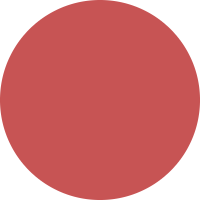
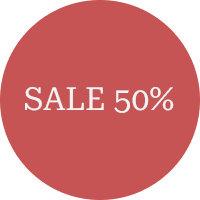
Адаптивное меню

Changed region(s): [[0.12, 0.42, 0.54, 0.57], [0.57, 0.42, 0.87, 0.57]]

diff --git a/menu/menu.css b/menu/menu.css
@@ -1,34 +1,59 @@
+.menu,
+.menu * {
+    box-sizing: border-box;
+}
 .menu {
+    --width: min(900px, 80vw);
+    --menuHeight: min(800px, calc(100vh - 50px), calc(800 / 900 * var(--width)));
+    --menuItemsHeight: calc(290 / 800 * var(--menuHeight) );
+    --menuItemHeight: calc(var(--menuItemsHeight) - 90px);
+    --menuGalleryHeight: calc(var(--menuHeight) - 2 * var(--menuItemsHeight) );
+    --menuGalleryItemHeight: calc(var(--menuGalleryHeight) - 20px);
+    --sectionRightLeftPadding: calc(77 / 200 * var(--menuItemHeight));
+    --menuItemGap: calc(73 / 200 * var(--menuItemHeight));
     display: block;
     visibility: hidden;
-    height: 0;
-    padding: 38px 0 27px 0;
-    /* width: 65.69%; */
-    width: 80%;
+    width: calc(var(--sectionRightLeftPadding) * 2 + var(--menuItemGap) * 2 + var(--menuItemHeight) * 3);
     max-width: 900px;
+    height: 0;
     background-color: #f2f2f2;
+    transition: height 0.3s ease, visibility 0.3s;
 }
 
 .menu--visible {
     visibility: visible;
-    height: max-content;
+    height: var(--menuHeight);
 }
 
 .menu__section {
     display: flex;
-    padding: 0 8.556% 0 8.556%;
+    padding-left: var(--sectionRightLeftPadding);
+    padding-right: var(--sectionRightLeftPadding);
     justify-content: space-between;
+}
+.menu__section:first-child {
+    height: var(--menuItemsHeight);
+    padding-top: 38px;
+    padding-bottom: 13px;
+}
+.menu__section:last-child {
+    height: var(--menuItemsHeight);
+    padding-top: 16px;
+    padding-bottom: 27px;
 }
 
 .menu__gallery {
-    padding: 11px 8.556% 11px 8.556%;
+    padding-top: 11px;
+    padding-bottom: 11px;
+    height: var(--menuGalleryHeight);
     align-items: center;
     background-color: #002654;
 }
 
 .menu__gallery-item {
     display: flex;
-    width: 23.61%;
+    height: calc(var(--menuGalleryItemHeight));
+    aspect-ratio: 150 / 200;
     align-items: center;
 }
 
@@ -39,15 +64,66 @@
 }
 
 .menu__item {
-    width: 26.81%;
+
+    width: var(--menuItemHeight);
+    height: var(--menuItemHeight);
     text-align: center;
 }
 
 .menu__item:hover {
     cursor: grab;
+    background-color: #f1eaea ;
 }
 
+.menu__item-link {
+    display: block;
+    text-decoration: none;
+    height: 25px;
+    font-size: 20px;
+    line-height: 25px;
+    color: #000;
+}
 .menu__img {
+    display: block;
     width: 100%;
+    margin-bottom: 12px;
+}
+
+@media (max-width: 670px) or (max-height: 550px) {
+    .menu {
+        width: 100%;
+        max-width: 300px;
+    }
+    .menu--visible {
+        height: 270px;
+    }
+    .menu__section {
+        flex-direction: column;
+        justify-content: flex-start;
+        padding-left: 0;
+        padding-right: 0;
+    }
+    .menu__section:first-child,
+    .menu__section:last-child {
+        padding-top: 0;
+        padding-bottom: 0;
+        height: 135px;
+    }
+    .menu__gallery {
+        display: none;
+    }
+    .menu__item {
+        width: 100%;
+        height: 45px;
+        text-align: start;
+    }
+    .menu__img {
+        display: none;
+    }
+    .menu__item-link {
+        height: 45px;
+        padding: 10px 10px 10px 10px;
+        border: thin solid rgb(238, 223, 223);
+    }
 }
 

diff --git a/styles/index.css b/styles/index.css
@@ -12,10 +12,13 @@ html {
 }
 
 .menu-wrapper {
-    padding: 22px 20px 0 100px;
+    width: 100%;
+    /* padding-top: 22px;
+    padding-left: 100px; */
     position: fixed;
-    top: 0;
-    z-index: 98;
+    top: 22px;
+    left: 100px;
+    z-index: 100;
 }
 
 .navbar-wrapper {
@@ -304,8 +307,8 @@ html {
         padding-right: 30px;
     }
     .menu-wrapper {
-        padding-top: 40px;
-        padding-left: 30px;
+        top: 40px;
+        left: 30px;
     }
    .index-page__hero::before {
         content: "";
